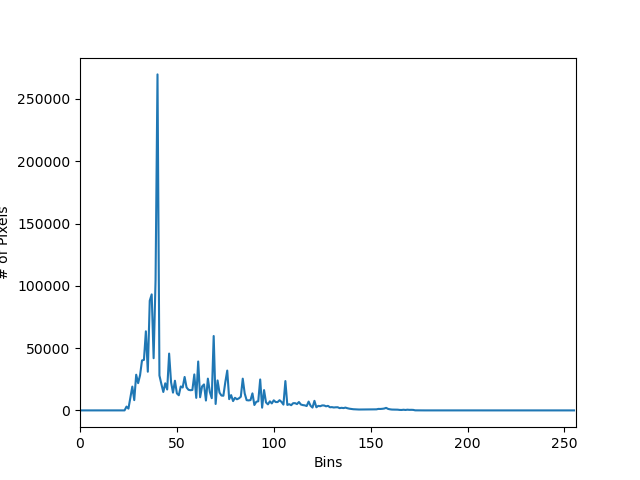
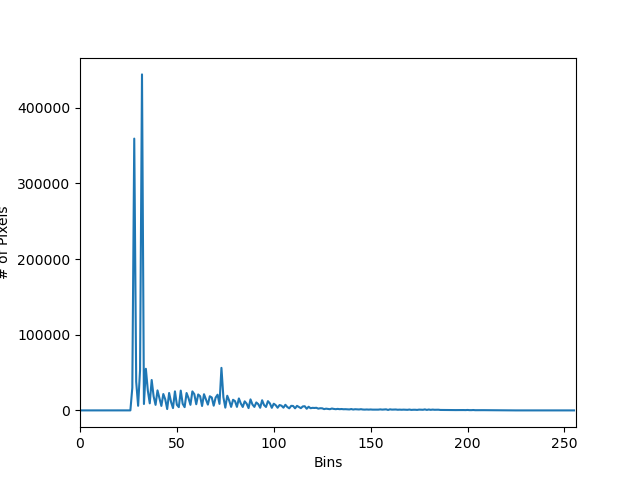
IP-> Added 2 exps

diff --git a/IP/Exp7/Exp7.py b/IP/Exp7/Exp7.py
@@ -123,7 +123,7 @@ class Ui_MainWindow(object):
         # ehi /= row*col
         pS=0
         for i in range(len(counts)):
-            pS+=255*(counts[i]/row*col)
+            pS+=255*(counts[i]/(row*col))
             counts[i]=pS
         for i in range(row):
             for j in range(col):
